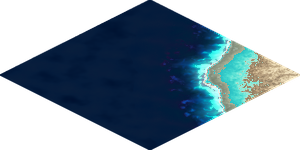
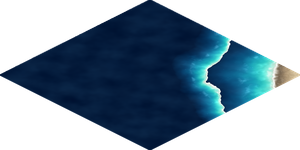
Repaint the coast from the generator, with the waterline moved first
Pillow and numpy are on the machine now, so the tiles come from
generate_coastline_iso.py again rather than from a post-process, and
scripts/tune_coastline.py is gone with the constraint that produced it.

That post-process moved the colour ramp but not the terms painted after it, and
the teal on the sand was the cost: the wet-sand tint, the foam lace and the surf
lip are all keyed to the distance from the waterline, so leaving them behind
stranded a wet, blue-green band out on dry beach. The move now happens to the
distance itself, before anything is painted, and every one of those follows the
water to where it now is.

The coast also sits further in towards the land, as the red lines on the
screenshot asked: the sand is pushed back 74 world pixels rather than 46, and
what is left is stretched so the beach still fades into the shore instead of
stopping dead. The sea reaches full depth a little sooner as well.

The generator writes to build/coastline_iso unless COASTLINE_OUT says otherwise,
rather than to the path it was first run at; the sixteen coast tiles go on to
FOSSart/Terrain/Coast and the padded set, contact sheet and demo stay out of the
shipped assets.

Claude-Session: https://claude.ai/code/session_01QXFvyyXDZLnfAxgXhrWa4A

diff --git a/scripts/generate_coastline_iso.py b/scripts/generate_coastline_iso.py
@@ -1,11 +1,16 @@
 import os
+from pathlib import Path
 import numpy as np
 from PIL import Image
 
 W, H = 300, 150          # diamond footprint (2:1 isometric)
 SS = 3                   # supersample factor
 PAD = 300                # padded canvas size for the 300x300 variant
-OUT = "/mnt/user-data/outputs/coastline_iso"
+# Where the tiles land. The sixteen coast_*.png go on to
+# RaylibUI/FOSSart/Terrain/Coast; the padded variant, contact sheet and demo are
+# review aids and stay out of the shipped asset set.
+OUT = os.environ.get("COASTLINE_OUT",
+                     str(Path(__file__).resolve().parents[1] / "build" / "coastline_iso"))
 os.makedirs(OUT, exist_ok=True)
 os.makedirs(OUT + "/padded_300x300", exist_ok=True)
 
@@ -109,6 +114,15 @@ V = np.clip(V_raw, 0, 1)         # so downsampling can't pull in a halo
 
 AMP = 0.115
 
+# How the painted coast is pulled in towards the land. The sea reaches full depth
+# at 150 / SHELF_REACH world pixels, so a smaller number is a narrower shelf.
+# BEACH_TRIM is how far the sand is pushed back towards the land in world pixels,
+# and LAND_REACH stretches what is left so the beach still fades into the shore
+# rather than stopping dead.
+SHELF_REACH = 0.34
+BEACH_TRIM = 74.0
+LAND_REACH = 0.55
+
 def build(N, E, Sc, Wc):
     """Corners in world order TL,TR,BR,BL == screen N,E,S,W."""
     TL, TR, BR, BL = N, E, Sc, Wc
@@ -122,21 +136,21 @@ def build(N, E, Sc, Wc):
                   0.16 * (F_coast2(U, V) - 0.5)) * 2.0
     d = np.clip((f - 0.5 + warp) / gmag, -150.0, 150.0)
 
+    # Pull the whole coast in before anything is painted. Untouched, the sea did not
+    # reach full depth until 150 world pixels out - half a tile - so an ocean tile
+    # touching land was bright edge to edge, and everything landward of the
+    # shoreline was sand, putting the beach half a tile out to sea.
+    #
+    # This moves the distance itself rather than only the colour ramp, so the wet
+    # sand, the foam lace, the surf lip and the swell all follow the waterline to
+    # its new place. Moving the ramp alone left those where they were and stranded
+    # the wet-sand tint out on dry beach as a teal smear.
+    d = np.where(d < 0, d / SHELF_REACH, (d - BEACH_TRIM) / LAND_REACH)
+
     n_shelf = F_shelf(U, V)
     shelf = ((n_shelf - 0.5) * 55 * smoothstep(-4, -30, d)
              * smoothstep(-148, -100, d))
     d_col = d + shelf
-
-    # Narrow the shelf and trim the beach before the ramp is applied, leaving every
-    # texture term below on the distances it was tuned for. Untouched, the ramp did
-    # not reach deep ocean until 150 world pixels out - half a tile - so an ocean
-    # tile touching land was bright edge to edge, and everything landward of the
-    # shoreline was sand, putting the beach half a tile out to sea. Kept in step
-    # with scripts/tune_coastline.py, which applies the same move to painted tiles
-    # on machines without Pillow.
-    SHELF_REACH = 0.38          # sea is at full depth by about 57px rather than 150
-    BEACH_TRIM = 46.0           # world pixels of sand trimmed back towards the land
-    d_col = np.where(d_col < 0, d_col / SHELF_REACH, d_col - BEACH_TRIM)
     img = ramp(d_col)
 
     n_grain, n_grain2 = F_grain(U, V), F_grain2(U, V)
